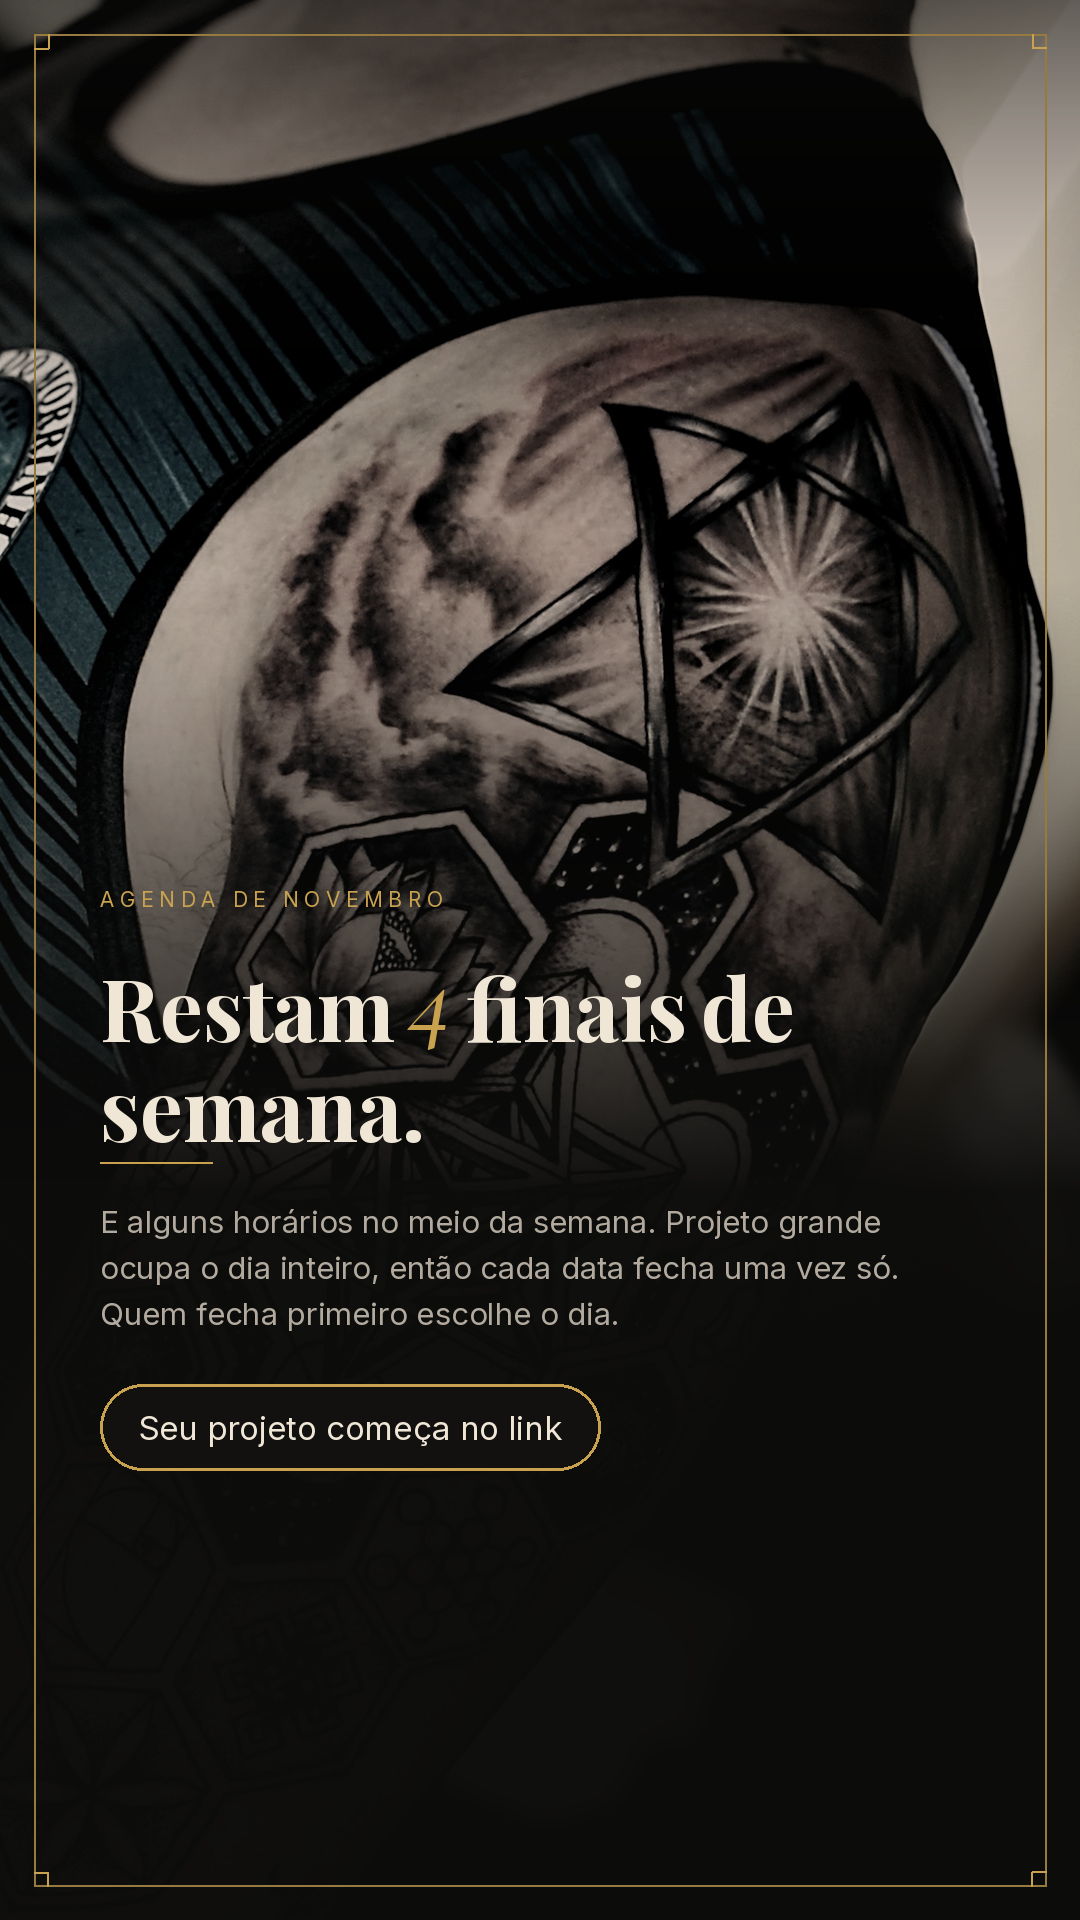
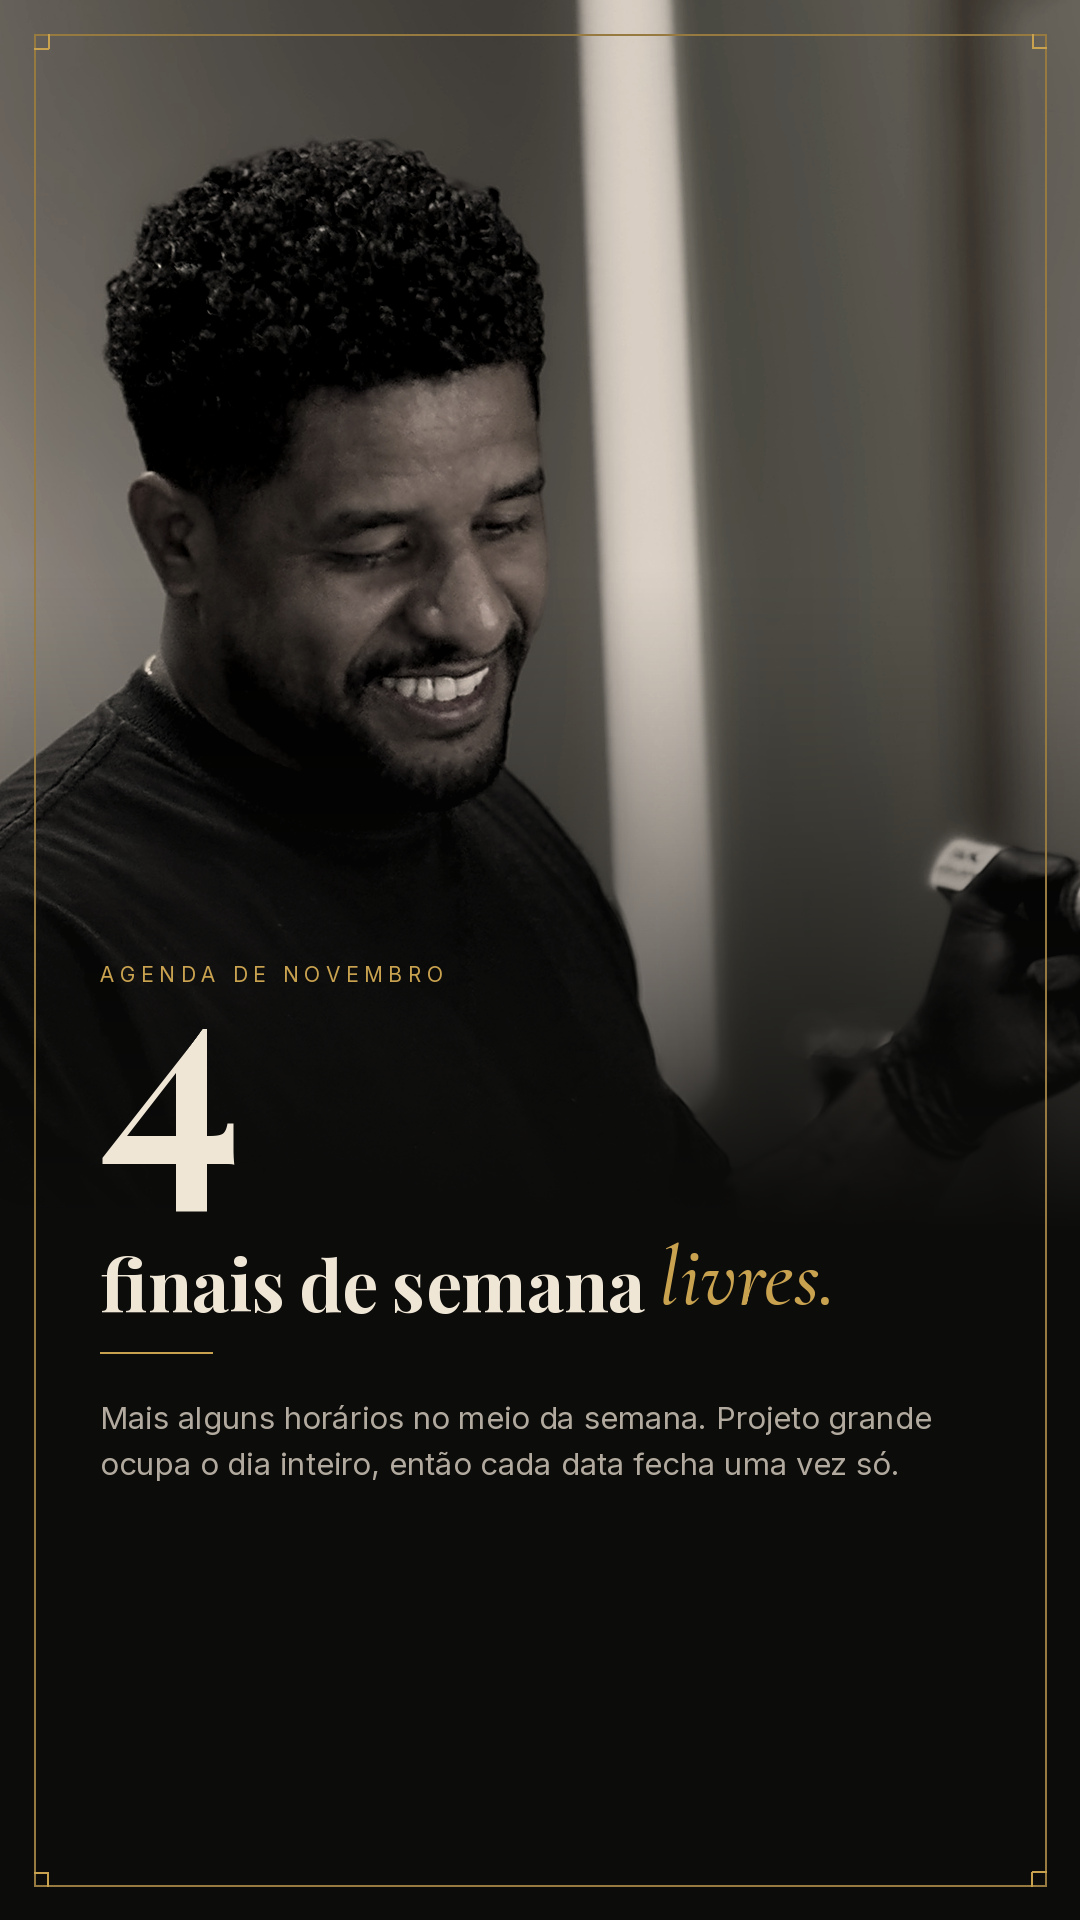
Story de agenda refeito: modo retrato e numeral protagonista
Ajustes pedidos pelo Andre: foto nova (ele trabalhando), fora a caixa de
CTA, pe da foto nao pode competir, numero maior e composicao de alto
padrao.

Dois recursos novos no gerador:
- modo "retrato": a foto ocupa o topo e morre no preto a partir de 46%
  da propria altura, com o texto vivendo no preto. Resolve foto com pe
  bagunçado (no caso, calca, papel e perna do cliente) sem retoque
- "numeral": o numero em Playfair bem grande acima do titulo, para
  quando o numero E a mensagem. O 4 embutido na frase nao lia numa tela
  de celular

Tambem corrigido o respiro entre titulo e filete, que estava colado e
parecia sublinhado.

contexto/identidade-pecas.md registra os dois modos e a mudanca do CTA:
nenhuma peca leva caixa de CTA na arte; no story o caminho e o sticker
de link sobre a faixa inferior, que a peca ja deixa livre.

Claude-Session: https://claude.ai/code/session_01EdnrMUwgUveDxzwL5hwqmi

diff --git a/carrosseis/_template/gerar.py b/carrosseis/_template/gerar.py
@@ -57,6 +57,38 @@ def tratar(cfg):
     r, g, b = im.split()
     im = Image.merge('RGB', (r.point(lambda v: min(255, int(v * 1.06))), g,
                              b.point(lambda v: int(v * 0.95))))
+    if cfg.get('modo') == 'retrato':
+        alt_foto = int(H * cfg.get('altura_foto', 0.66))
+        src = Image.open(cfg['imagem']).convert('RGB')
+        rec = cfg.get('recorte')
+        if rec:
+            cx, cy, lw = rec; lh = int(lw * alt_foto / W)
+            x0, y0 = max(0, cx - lw // 2), max(0, cy - lh // 2)
+            src = src.crop((x0, y0, min(src.width, x0 + lw), min(src.height, y0 + lh)))
+        w, h = src.size; alvo = W / alt_foto
+        if w / h > alvo:
+            nw = int(h * alvo); x = int((w - nw) * cfg.get('foco', 0.5))
+            src = src.crop((x, 0, x + nw, h))
+        else:
+            nh = int(w / alvo); y = int((h - nh) * cfg.get('foco_v', 0.5))
+            src = src.crop((0, y, w, y + nh))
+        src = src.resize((W, alt_foto), Image.LANCZOS)
+        src = src.filter(ImageFilter.UnsharpMask(radius=2, percent=58, threshold=3))
+        src = Image.blend(src, src.convert('L').convert('RGB'), 0.82)
+        f = cfg.get('escuro', 0.42)
+        src = ImageEnhance.Brightness(src).enhance(1 - f * 0.42)
+        src = ImageEnhance.Contrast(src).enhance(1.16)
+        r, g, b = src.split()
+        src = Image.merge('RGB', (r.point(lambda v: min(255, int(v * 1.05))), g,
+                                  b.point(lambda v: int(v * 0.96))))
+        fade = Image.new('L', (W, alt_foto), 0); d = ImageDraw.Draw(fade)
+        ini = int(alt_foto * 0.46)
+        for y in range(ini, alt_foto):
+            d.line([(0, y), (W, y)], fill=int(255 * ((y - ini) / (alt_foto - ini)) ** 1.25))
+        src = Image.composite(Image.new('RGB', (W, alt_foto), ESCURO), src, fade)
+        base = Image.new('RGB', (W, H), ESCURO); base.paste(src, (0, 0))
+        return base
+
     if cfg.get('formato') == 'story':
         g = Image.new('L', (W, H), 0); d = ImageDraw.Draw(g)
         for y in range(H):
@@ -141,7 +173,11 @@ def slide(cfg, out):
     if linha: linhas.append(linha)
     corpo = quebrar(d, cfg['texto'], f_tx, larg) if cfg.get('texto') else []
 
-    alt = (int(62*E) if cfg.get('etiqueta') else 0) + len(linhas)*lh + int(54*E) + len(corpo)*lhx
+    alt = (int(62*E) if cfg.get('etiqueta') else 0) + len(linhas)*lh + int(80*E) + len(corpo)*lhx
+    if cfg.get('numeral'):
+        fn = F('pf-bold.ttf', cfg.get('tam_numeral', 250))
+        nb = d.textbbox((0, 0), str(cfg['numeral']), font=fn)
+        alt += (nb[3] - nb[1]) + int(28 * E)
     if story:
         alt += int(150 * E) if cfg.get('cta') else 0
         y = H - int(430 * E) - alt          # deixa a faixa inferior livre para o sticker de link
@@ -151,6 +187,12 @@ def slide(cfg, out):
     if cfg.get('etiqueta'):
         espacado(d, (X, y), cfg['etiqueta'].upper(), f_et, DOURADO, 5.5 * E)
         y += int(62 * E)
+    if cfg.get('numeral'):
+        f_n = F('pf-bold.ttf', cfg.get('tam_numeral', 250))
+        cx = str(cfg['numeral'])
+        cb = d.textbbox((0, 0), cx, font=f_n)
+        d.text((X - cb[0], y - cb[1] + int(6 * E)), cx, font=f_n, fill=CREME)
+        y += (cb[3] - cb[1]) + int(28 * E)
     for ln in linhas:
         x = X
         for pal, it, f in ln:
@@ -158,9 +200,9 @@ def slide(cfg, out):
                    fill=DOURADO if it else CREME)
             x += d.textlength(pal, font=f) + 14 * E
         y += lh
-    y += int(14 * E)
+    y += int(34 * E)
     d.line([(X, y), (X + int(112*E), y)], fill=DOURADO, width=2)
-    y += int(40 * E)
+    y += int(46 * E)
     for ln in corpo:
         d.text((X, y), ln, font=f_tx, fill=APAGADO); y += lhx
 

diff --git a/contexto/identidade-pecas.md b/contexto/identidade-pecas.md
@@ -40,7 +40,7 @@ A palavra entre `*asteriscos*` no campo `titulo` sai automaticamente em cursiva 
 
 Etiqueta em caixa alta espaçada, título, filete dourado curto, corpo. Moldura dourada fina com cantos reforçados.
 
-**Não entram na arte:** numeração de slide, assinatura no topo, assinatura no rodapé, CTA de comentário. O CTA de carrossel vive na legenda. O story leva caixa de CTA porque ali não existe legenda.
+**Não entram na arte:** numeração de slide, assinatura no topo, assinatura no rodapé, caixa de CTA, CTA de comentário. O CTA de carrossel vive na legenda. No story, o caminho é o sticker de link, colado por cima da faixa inferior, que a peça já deixa livre de propósito.
 
 ## Tratamento da foto
 
@@ -50,6 +50,18 @@ A tattoo **nunca** é redesenhada. Só luz, cor e enquadramento.
 2. Escurecimento conforme o campo `escuro`, mais contraste leve.
 3. Tom quente sutil, imitando a luz lateral do padrão editorial.
 4. Degradê que acompanha a posição do texto.
+
+## Modo retrato (peça de alto padrão)
+
+Campo `modo: "retrato"`. A foto ocupa o topo (`altura_foto`, padrão 0.66 da altura) e **morre no preto** a partir de 46% da própria altura. O texto vive no preto, sem disputar com a imagem.
+
+É o modo certo quando a foto tem fundo bagunçado ou elementos que roubam atenção no pé: o enquadramento corta o problema e o resto some no escuro. Usa dessaturação mais forte (82%) e escurecimento mais leve (`escuro` por volta de 0.30), porque a foto já está protegida pelo corte.
+
+## Numeral protagonista
+
+Campo `numeral`, com `tam_numeral` por volta de 250. Renderiza o número em Playfair, bem grande, acima do título.
+
+Serve para quando o número **é** a mensagem: vagas restantes, anos de profissão, número de sessões. Número grande lê em meio segundo numa tela de celular; número embutido na frase não lê. Um numeral por peça.
 
 ## Posição do texto
 
